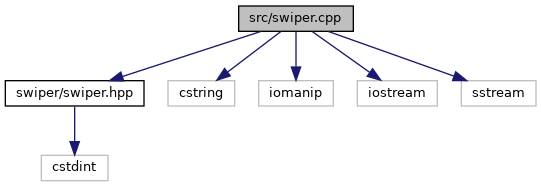
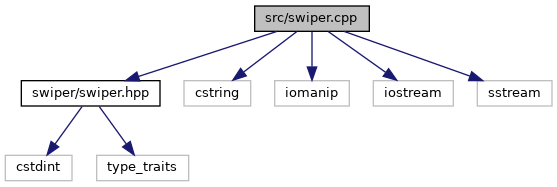
Travis build: 92
Commit: 341ecff3a257a022179fcf5909be35df15467aa0

diff --git a/swiper_8hpp_source.html b/swiper_8hpp_source.html
@@ -72,28 +72,20 @@ $(function() {
 <a href="swiper_8hpp.html">Go to the documentation of this file.</a><div class="fragment"><div class="line"><a name="l00001"></a><span class="lineno">    1</span>&#160;<span class="preprocessor">#pragma once</span></div>
 <div class="line"><a name="l00002"></a><span class="lineno">    2</span>&#160; </div>
 <div class="line"><a name="l00010"></a><span class="lineno">   10</span>&#160;<span class="preprocessor">#include &lt;cstdint&gt;</span></div>
-<div class="line"><a name="l00011"></a><span class="lineno">   11</span>&#160; </div>
-<div class="line"><a name="l00015"></a><span class="lineno"><a class="line" href="namespaceswiper.html">   15</a></span>&#160;<span class="keyword">namespace </span><a class="code" href="namespaceswiper.html">swiper</a> {</div>
-<div class="line"><a name="l00022"></a><span class="lineno">   22</span>&#160;    int32_t <a class="code" href="namespaceswiper.html#af762b52234dc8c0a458416df2f8c1ec3">ParseDigit</a>(<span class="keywordtype">char</span> c);</div>
-<div class="line"><a name="l00023"></a><span class="lineno">   23</span>&#160; </div>
-<div class="line"><a name="l00030"></a><span class="lineno">   30</span>&#160;    int32_t <a class="code" href="namespaceswiper.html#aaf453672d84b320b1c2f76e8cf025a8f">ParseDec</a>(<span class="keyword">const</span> <span class="keywordtype">char</span> *pair);</div>
-<div class="line"><a name="l00031"></a><span class="lineno">   31</span>&#160; </div>
-<div class="line"><a name="l00038"></a><span class="lineno">   38</span>&#160;    int32_t <a class="code" href="namespaceswiper.html#a6dd62273df44d6813e86741f8bed811f">ParseHex</a>(<span class="keyword">const</span> <span class="keywordtype">char</span> *pair);</div>
+<div class="line"><a name="l00011"></a><span class="lineno">   11</span>&#160;<span class="preprocessor">#include &lt;type_traits&gt;</span></div>
+<div class="line"><a name="l00012"></a><span class="lineno">   12</span>&#160; </div>
+<div class="line"><a name="l00016"></a><span class="lineno"><a class="line" href="namespaceswiper.html">   16</a></span>&#160;<span class="keyword">namespace </span><a class="code" href="namespaceswiper.html">swiper</a> {</div>
+<div class="line"><a name="l00028"></a><span class="lineno">   28</span>&#160;    <span class="keywordtype">void</span> <a class="code" href="namespaceswiper.html#a098835d2b17c1d3924a119f43deda723">Encrypt</a>(<span class="keywordtype">char</span> *hash, int16_t seed, <span class="keyword">const</span> <span class="keywordtype">char</span> *password) noexcept;</div>
+<div class="line"><a name="l00029"></a><span class="lineno">   29</span>&#160; </div>
+<div class="line"><a name="l00038"></a><span class="lineno">   38</span>&#160;    <span class="keywordtype">void</span> <a class="code" href="namespaceswiper.html#a5454b273ec2a80c65d11f67e398ae720">WarmCache</a>(<span class="keywordtype">char</span> *password, <span class="keyword">const</span> <span class="keywordtype">char</span> *hash, int32_t n) noexcept;</div>
 <div class="line"><a name="l00039"></a><span class="lineno">   39</span>&#160; </div>
-<div class="line"><a name="l00051"></a><span class="lineno">   51</span>&#160;    <span class="keywordtype">void</span> <a class="code" href="namespaceswiper.html#ae6826be05aa70e068e136218b554bc54">Encrypt</a>(<span class="keywordtype">char</span> *hash, int32_t seed, <span class="keyword">const</span> <span class="keywordtype">char</span> *password) noexcept;</div>
-<div class="line"><a name="l00052"></a><span class="lineno">   52</span>&#160; </div>
-<div class="line"><a name="l00061"></a><span class="lineno">   61</span>&#160;    <span class="keywordtype">void</span> <a class="code" href="namespaceswiper.html#a5454b273ec2a80c65d11f67e398ae720">WarmCache</a>(<span class="keywordtype">char</span> *password, <span class="keyword">const</span> <span class="keywordtype">char</span> *hash, int32_t n) noexcept;</div>
-<div class="line"><a name="l00062"></a><span class="lineno">   62</span>&#160; </div>
-<div class="line"><a name="l00074"></a><span class="lineno">   74</span>&#160;    <span class="keywordtype">void</span> <a class="code" href="namespaceswiper.html#a44449e9a1724cda79ba09564c58e259a">Decrypt</a>(<span class="keywordtype">char</span> *password, <span class="keyword">const</span> <span class="keywordtype">char</span> *hash) noexcept;</div>
-<div class="line"><a name="l00075"></a><span class="lineno">   75</span>&#160;}</div>
+<div class="line"><a name="l00051"></a><span class="lineno">   51</span>&#160;    <span class="keywordtype">void</span> <a class="code" href="namespaceswiper.html#a44449e9a1724cda79ba09564c58e259a">Decrypt</a>(<span class="keywordtype">char</span> *password, <span class="keyword">const</span> <span class="keywordtype">char</span> *hash) noexcept;</div>
+<div class="line"><a name="l00052"></a><span class="lineno">   52</span>&#160;}</div>
 </div><!-- fragment --></div><!-- contents -->
-<div class="ttc" id="anamespaceswiper_html"><div class="ttname"><a href="namespaceswiper.html">swiper</a></div><div class="ttdoc">swiper manages legacy Cisco IOS^tm type 7 passwords.</div><div class="ttdef"><b>Definition:</b> swiper.hpp:15</div></div>
-<div class="ttc" id="anamespaceswiper_html_a44449e9a1724cda79ba09564c58e259a"><div class="ttname"><a href="namespaceswiper.html#a44449e9a1724cda79ba09564c58e259a">swiper::Decrypt</a></div><div class="ttdeci">void Decrypt(char *password, const char *hash) noexcept</div><div class="ttdoc">Decrypt reverses Cisco IOS type 7 hashes.</div><div class="ttdef"><b>Definition:</b> swiper.cpp:66</div></div>
-<div class="ttc" id="anamespaceswiper_html_ae6826be05aa70e068e136218b554bc54"><div class="ttname"><a href="namespaceswiper.html#ae6826be05aa70e068e136218b554bc54">swiper::Encrypt</a></div><div class="ttdeci">void Encrypt(char *hash, int32_t seed, const char *password) noexcept</div><div class="ttdoc">Encrypt produces Cisco IOS^tm type 7 hashes.</div><div class="ttdef"><b>Definition:</b> swiper.cpp:39</div></div>
-<div class="ttc" id="anamespaceswiper_html_a6dd62273df44d6813e86741f8bed811f"><div class="ttname"><a href="namespaceswiper.html#a6dd62273df44d6813e86741f8bed811f">swiper::ParseHex</a></div><div class="ttdeci">int32_t ParseHex(const char *pair)</div><div class="ttdoc">ParseHex reads a hexadecimal string as a number.</div><div class="ttdef"><b>Definition:</b> swiper.cpp:35</div></div>
-<div class="ttc" id="anamespaceswiper_html_af762b52234dc8c0a458416df2f8c1ec3"><div class="ttname"><a href="namespaceswiper.html#af762b52234dc8c0a458416df2f8c1ec3">swiper::ParseDigit</a></div><div class="ttdeci">int32_t ParseDigit(char c)</div><div class="ttdoc">ParseDigit reads a decimal or hexadecimal character as a number.</div><div class="ttdef"><b>Definition:</b> swiper.cpp:23</div></div>
-<div class="ttc" id="anamespaceswiper_html_aaf453672d84b320b1c2f76e8cf025a8f"><div class="ttname"><a href="namespaceswiper.html#aaf453672d84b320b1c2f76e8cf025a8f">swiper::ParseDec</a></div><div class="ttdeci">int32_t ParseDec(const char *pair)</div><div class="ttdoc">ParseDec reads a decimal string as a number.</div><div class="ttdef"><b>Definition:</b> swiper.cpp:31</div></div>
-<div class="ttc" id="anamespaceswiper_html_a5454b273ec2a80c65d11f67e398ae720"><div class="ttname"><a href="namespaceswiper.html#a5454b273ec2a80c65d11f67e398ae720">swiper::WarmCache</a></div><div class="ttdeci">void WarmCache(char *password, const char *hash, int32_t n) noexcept</div><div class="ttdoc">WarmCache accelerates successive Decrypt calls, by prepopulating the system cache.</div><div class="ttdef"><b>Definition:</b> swiper.cpp:59</div></div>
+<div class="ttc" id="anamespaceswiper_html"><div class="ttname"><a href="namespaceswiper.html">swiper</a></div><div class="ttdoc">swiper manages legacy Cisco IOS^tm type 7 passwords.</div><div class="ttdef"><b>Definition:</b> swiper.hpp:16</div></div>
+<div class="ttc" id="anamespaceswiper_html_a44449e9a1724cda79ba09564c58e259a"><div class="ttname"><a href="namespaceswiper.html#a44449e9a1724cda79ba09564c58e259a">swiper::Decrypt</a></div><div class="ttdeci">void Decrypt(char *password, const char *hash) noexcept</div><div class="ttdoc">Decrypt reverses Cisco IOS type 7 hashes.</div><div class="ttdef"><b>Definition:</b> swiper.cpp:70</div></div>
+<div class="ttc" id="anamespaceswiper_html_a5454b273ec2a80c65d11f67e398ae720"><div class="ttname"><a href="namespaceswiper.html#a5454b273ec2a80c65d11f67e398ae720">swiper::WarmCache</a></div><div class="ttdeci">void WarmCache(char *password, const char *hash, int32_t n) noexcept</div><div class="ttdoc">WarmCache accelerates successive Decrypt calls, by prepopulating the system cache.</div><div class="ttdef"><b>Definition:</b> swiper.cpp:63</div></div>
+<div class="ttc" id="anamespaceswiper_html_a098835d2b17c1d3924a119f43deda723"><div class="ttname"><a href="namespaceswiper.html#a098835d2b17c1d3924a119f43deda723">swiper::Encrypt</a></div><div class="ttdeci">void Encrypt(char *hash, int16_t seed, const char *password) noexcept</div><div class="ttdoc">Encrypt produces Cisco IOS^tm type 7 hashes.</div><div class="ttdef"><b>Definition:</b> swiper.cpp:43</div></div>
 <!-- start footer part -->
 <hr class="footer"/><address class="footer"><small>
 Generated by &#160;<a href="http://www.doxygen.org/index.html">

diff --git a/namespaceswiper.html b/namespaceswiper.html
@@ -74,18 +74,9 @@ $(function() {
 <table class="memberdecls">
 <tr class="heading"><td colspan="2"><h2 class="groupheader"><a name="func-members"></a>
 Functions</h2></td></tr>
-<tr class="memitem:af762b52234dc8c0a458416df2f8c1ec3"><td class="memItemLeft" align="right" valign="top">int32_t&#160;</td><td class="memItemRight" valign="bottom"><a class="el" href="namespaceswiper.html#af762b52234dc8c0a458416df2f8c1ec3">ParseDigit</a> (char c)</td></tr>
-<tr class="memdesc:af762b52234dc8c0a458416df2f8c1ec3"><td class="mdescLeft">&#160;</td><td class="mdescRight">ParseDigit reads a decimal or hexadecimal character as a number.  <a href="namespaceswiper.html#af762b52234dc8c0a458416df2f8c1ec3">More...</a><br /></td></tr>
-<tr class="separator:af762b52234dc8c0a458416df2f8c1ec3"><td class="memSeparator" colspan="2">&#160;</td></tr>
-<tr class="memitem:aaf453672d84b320b1c2f76e8cf025a8f"><td class="memItemLeft" align="right" valign="top">int32_t&#160;</td><td class="memItemRight" valign="bottom"><a class="el" href="namespaceswiper.html#aaf453672d84b320b1c2f76e8cf025a8f">ParseDec</a> (const char *pair)</td></tr>
-<tr class="memdesc:aaf453672d84b320b1c2f76e8cf025a8f"><td class="mdescLeft">&#160;</td><td class="mdescRight">ParseDec reads a decimal string as a number.  <a href="namespaceswiper.html#aaf453672d84b320b1c2f76e8cf025a8f">More...</a><br /></td></tr>
-<tr class="separator:aaf453672d84b320b1c2f76e8cf025a8f"><td class="memSeparator" colspan="2">&#160;</td></tr>
-<tr class="memitem:a6dd62273df44d6813e86741f8bed811f"><td class="memItemLeft" align="right" valign="top">int32_t&#160;</td><td class="memItemRight" valign="bottom"><a class="el" href="namespaceswiper.html#a6dd62273df44d6813e86741f8bed811f">ParseHex</a> (const char *pair)</td></tr>
-<tr class="memdesc:a6dd62273df44d6813e86741f8bed811f"><td class="mdescLeft">&#160;</td><td class="mdescRight">ParseHex reads a hexadecimal string as a number.  <a href="namespaceswiper.html#a6dd62273df44d6813e86741f8bed811f">More...</a><br /></td></tr>
-<tr class="separator:a6dd62273df44d6813e86741f8bed811f"><td class="memSeparator" colspan="2">&#160;</td></tr>
-<tr class="memitem:ae6826be05aa70e068e136218b554bc54"><td class="memItemLeft" align="right" valign="top">void&#160;</td><td class="memItemRight" valign="bottom"><a class="el" href="namespaceswiper.html#ae6826be05aa70e068e136218b554bc54">Encrypt</a> (char *hash, int32_t seed, const char *password) noexcept</td></tr>
-<tr class="memdesc:ae6826be05aa70e068e136218b554bc54"><td class="mdescLeft">&#160;</td><td class="mdescRight">Encrypt produces Cisco IOS^tm type 7 hashes.  <a href="namespaceswiper.html#ae6826be05aa70e068e136218b554bc54">More...</a><br /></td></tr>
-<tr class="separator:ae6826be05aa70e068e136218b554bc54"><td class="memSeparator" colspan="2">&#160;</td></tr>
+<tr class="memitem:a098835d2b17c1d3924a119f43deda723"><td class="memItemLeft" align="right" valign="top">void&#160;</td><td class="memItemRight" valign="bottom"><a class="el" href="namespaceswiper.html#a098835d2b17c1d3924a119f43deda723">Encrypt</a> (char *hash, int16_t seed, const char *password) noexcept</td></tr>
+<tr class="memdesc:a098835d2b17c1d3924a119f43deda723"><td class="mdescLeft">&#160;</td><td class="mdescRight">Encrypt produces Cisco IOS^tm type 7 hashes.  <a href="namespaceswiper.html#a098835d2b17c1d3924a119f43deda723">More...</a><br /></td></tr>
+<tr class="separator:a098835d2b17c1d3924a119f43deda723"><td class="memSeparator" colspan="2">&#160;</td></tr>
 <tr class="memitem:a5454b273ec2a80c65d11f67e398ae720"><td class="memItemLeft" align="right" valign="top">void&#160;</td><td class="memItemRight" valign="bottom"><a class="el" href="namespaceswiper.html#a5454b273ec2a80c65d11f67e398ae720">WarmCache</a> (char *password, const char *hash, int32_t n) noexcept</td></tr>
 <tr class="memdesc:a5454b273ec2a80c65d11f67e398ae720"><td class="mdescLeft">&#160;</td><td class="mdescRight">WarmCache accelerates successive <a class="el" href="namespaceswiper.html#a44449e9a1724cda79ba09564c58e259a">Decrypt</a> calls, by prepopulating the system cache.  <a href="namespaceswiper.html#a5454b273ec2a80c65d11f67e398ae720">More...</a><br /></td></tr>
 <tr class="separator:a5454b273ec2a80c65d11f67e398ae720"><td class="memSeparator" colspan="2">&#160;</td></tr>
@@ -149,8 +140,8 @@ Variables</h2></td></tr>
 
 </div>
 </div>
-<a id="ae6826be05aa70e068e136218b554bc54"></a>
-<h2 class="memtitle"><span class="permalink"><a href="#ae6826be05aa70e068e136218b554bc54">&#9670;&nbsp;</a></span>Encrypt()</h2>
+<a id="a098835d2b17c1d3924a119f43deda723"></a>
+<h2 class="memtitle"><span class="permalink"><a href="#a098835d2b17c1d3924a119f43deda723">&#9670;&nbsp;</a></span>Encrypt()</h2>
 
 <div class="memitem">
 <div class="memproto">
@@ -167,7 +158,7 @@ Variables</h2></td></tr>
         <tr>
           <td class="paramkey"></td>
           <td></td>
-          <td class="paramtype">int32_t&#160;</td>
+          <td class="paramtype">int16_t&#160;</td>
           <td class="paramname"><em>seed</em>, </td>
         </tr>
         <tr>
@@ -200,87 +191,6 @@ Variables</h2></td></tr>
   </table>
   </dd>
 </dl>
-
-</div>
-</div>
-<a id="aaf453672d84b320b1c2f76e8cf025a8f"></a>
-<h2 class="memtitle"><span class="permalink"><a href="#aaf453672d84b320b1c2f76e8cf025a8f">&#9670;&nbsp;</a></span>ParseDec()</h2>
-
-<div class="memitem">
-<div class="memproto">
-      <table class="memname">
-        <tr>
-          <td class="memname">int32_t swiper::ParseDec </td>
-          <td>(</td>
-          <td class="paramtype">const char *&#160;</td>
-          <td class="paramname"><em>pair</em></td><td>)</td>
-          <td></td>
-        </tr>
-      </table>
-</div><div class="memdoc">
-
-<p>ParseDec reads a decimal string as a number. </p>
-<dl class="params"><dt>Parameters</dt><dd>
-  <table class="params">
-    <tr><td class="paramname">pair</td><td>2 characters </td></tr>
-  </table>
-  </dd>
-</dl>
-<dl class="section return"><dt>Returns</dt><dd>value </dd></dl>
-
-</div>
-</div>
-<a id="af762b52234dc8c0a458416df2f8c1ec3"></a>
-<h2 class="memtitle"><span class="permalink"><a href="#af762b52234dc8c0a458416df2f8c1ec3">&#9670;&nbsp;</a></span>ParseDigit()</h2>
-
-<div class="memitem">
-<div class="memproto">
-      <table class="memname">
-        <tr>
-          <td class="memname">int32_t swiper::ParseDigit </td>
-          <td>(</td>
-          <td class="paramtype">char&#160;</td>
-          <td class="paramname"><em>c</em></td><td>)</td>
-          <td></td>
-        </tr>
-      </table>
-</div><div class="memdoc">
-
-<p>ParseDigit reads a decimal or hexadecimal character as a number. </p>
-<dl class="params"><dt>Parameters</dt><dd>
-  <table class="params">
-    <tr><td class="paramname">c</td><td>printed representation </td></tr>
-  </table>
-  </dd>
-</dl>
-<dl class="section return"><dt>Returns</dt><dd>value </dd></dl>
-
-</div>
-</div>
-<a id="a6dd62273df44d6813e86741f8bed811f"></a>
-<h2 class="memtitle"><span class="permalink"><a href="#a6dd62273df44d6813e86741f8bed811f">&#9670;&nbsp;</a></span>ParseHex()</h2>
-
-<div class="memitem">
-<div class="memproto">
-      <table class="memname">
-        <tr>
-          <td class="memname">int32_t swiper::ParseHex </td>
-          <td>(</td>
-          <td class="paramtype">const char *&#160;</td>
-          <td class="paramname"><em>pair</em></td><td>)</td>
-          <td></td>
-        </tr>
-      </table>
-</div><div class="memdoc">
-
-<p>ParseHex reads a hexadecimal string as a number. </p>
-<dl class="params"><dt>Parameters</dt><dd>
-  <table class="params">
-    <tr><td class="paramname">pair</td><td>2 characters </td></tr>
-  </table>
-  </dd>
-</dl>
-<dl class="section return"><dt>Returns</dt><dd>value </dd></dl>
 
 </div>
 </div>

diff --git a/swiper_8cpp.html b/swiper_8cpp.html
@@ -83,13 +83,14 @@ Include dependency graph for swiper.cpp:</div>
 <div class="dyncontent">
 <div class="center"><img src="swiper_8cpp__incl.png" border="0" usemap="#src_2swiper_8cpp" alt=""/></div>
 <map name="src_2swiper_8cpp" id="src_2swiper_8cpp">
-<area shape="rect" title=" " alt="" coords="239,5,353,32"/>
-<area shape="rect" href="swiper_8hpp.html" title=" " alt="" coords="5,80,144,107"/>
-<area shape="rect" title=" " alt="" coords="168,80,235,107"/>
-<area shape="rect" title=" " alt="" coords="259,80,333,107"/>
-<area shape="rect" title=" " alt="" coords="357,80,437,107"/>
-<area shape="rect" title=" " alt="" coords="461,80,536,107"/>
-<area shape="rect" title=" " alt="" coords="41,155,108,181"/>
+<area shape="rect" title=" " alt="" coords="255,5,369,32"/>
+<area shape="rect" href="swiper_8hpp.html" title=" " alt="" coords="21,80,160,107"/>
+<area shape="rect" title=" " alt="" coords="184,80,251,107"/>
+<area shape="rect" title=" " alt="" coords="275,80,349,107"/>
+<area shape="rect" title=" " alt="" coords="373,80,453,107"/>
+<area shape="rect" title=" " alt="" coords="477,80,552,107"/>
+<area shape="rect" title=" " alt="" coords="5,155,72,181"/>
+<area shape="rect" title=" " alt="" coords="97,155,189,181"/>
 </map>
 </div>
 </div><table class="memberdecls">
@@ -101,18 +102,9 @@ Namespaces</h2></td></tr>
 </table><table class="memberdecls">
 <tr class="heading"><td colspan="2"><h2 class="groupheader"><a name="func-members"></a>
 Functions</h2></td></tr>
-<tr class="memitem:af762b52234dc8c0a458416df2f8c1ec3"><td class="memItemLeft" align="right" valign="top">int32_t&#160;</td><td class="memItemRight" valign="bottom"><a class="el" href="namespaceswiper.html#af762b52234dc8c0a458416df2f8c1ec3">swiper::ParseDigit</a> (char c)</td></tr>
-<tr class="memdesc:af762b52234dc8c0a458416df2f8c1ec3"><td class="mdescLeft">&#160;</td><td class="mdescRight">ParseDigit reads a decimal or hexadecimal character as a number.  <a href="namespaceswiper.html#af762b52234dc8c0a458416df2f8c1ec3">More...</a><br /></td></tr>
-<tr class="separator:af762b52234dc8c0a458416df2f8c1ec3"><td class="memSeparator" colspan="2">&#160;</td></tr>
-<tr class="memitem:aaf453672d84b320b1c2f76e8cf025a8f"><td class="memItemLeft" align="right" valign="top">int32_t&#160;</td><td class="memItemRight" valign="bottom"><a class="el" href="namespaceswiper.html#aaf453672d84b320b1c2f76e8cf025a8f">swiper::ParseDec</a> (const char *pair)</td></tr>
-<tr class="memdesc:aaf453672d84b320b1c2f76e8cf025a8f"><td class="mdescLeft">&#160;</td><td class="mdescRight">ParseDec reads a decimal string as a number.  <a href="namespaceswiper.html#aaf453672d84b320b1c2f76e8cf025a8f">More...</a><br /></td></tr>
-<tr class="separator:aaf453672d84b320b1c2f76e8cf025a8f"><td class="memSeparator" colspan="2">&#160;</td></tr>
-<tr class="memitem:a6dd62273df44d6813e86741f8bed811f"><td class="memItemLeft" align="right" valign="top">int32_t&#160;</td><td class="memItemRight" valign="bottom"><a class="el" href="namespaceswiper.html#a6dd62273df44d6813e86741f8bed811f">swiper::ParseHex</a> (const char *pair)</td></tr>
-<tr class="memdesc:a6dd62273df44d6813e86741f8bed811f"><td class="mdescLeft">&#160;</td><td class="mdescRight">ParseHex reads a hexadecimal string as a number.  <a href="namespaceswiper.html#a6dd62273df44d6813e86741f8bed811f">More...</a><br /></td></tr>
-<tr class="separator:a6dd62273df44d6813e86741f8bed811f"><td class="memSeparator" colspan="2">&#160;</td></tr>
-<tr class="memitem:ae6826be05aa70e068e136218b554bc54"><td class="memItemLeft" align="right" valign="top">void&#160;</td><td class="memItemRight" valign="bottom"><a class="el" href="namespaceswiper.html#ae6826be05aa70e068e136218b554bc54">swiper::Encrypt</a> (char *hash, int32_t seed, const char *password) noexcept</td></tr>
-<tr class="memdesc:ae6826be05aa70e068e136218b554bc54"><td class="mdescLeft">&#160;</td><td class="mdescRight">Encrypt produces Cisco IOS^tm type 7 hashes.  <a href="namespaceswiper.html#ae6826be05aa70e068e136218b554bc54">More...</a><br /></td></tr>
-<tr class="separator:ae6826be05aa70e068e136218b554bc54"><td class="memSeparator" colspan="2">&#160;</td></tr>
+<tr class="memitem:a098835d2b17c1d3924a119f43deda723"><td class="memItemLeft" align="right" valign="top">void&#160;</td><td class="memItemRight" valign="bottom"><a class="el" href="namespaceswiper.html#a098835d2b17c1d3924a119f43deda723">swiper::Encrypt</a> (char *hash, int16_t seed, const char *password) noexcept</td></tr>
+<tr class="memdesc:a098835d2b17c1d3924a119f43deda723"><td class="mdescLeft">&#160;</td><td class="mdescRight">Encrypt produces Cisco IOS^tm type 7 hashes.  <a href="namespaceswiper.html#a098835d2b17c1d3924a119f43deda723">More...</a><br /></td></tr>
+<tr class="separator:a098835d2b17c1d3924a119f43deda723"><td class="memSeparator" colspan="2">&#160;</td></tr>
 <tr class="memitem:a5454b273ec2a80c65d11f67e398ae720"><td class="memItemLeft" align="right" valign="top">void&#160;</td><td class="memItemRight" valign="bottom"><a class="el" href="namespaceswiper.html#a5454b273ec2a80c65d11f67e398ae720">swiper::WarmCache</a> (char *password, const char *hash, int32_t n) noexcept</td></tr>
 <tr class="memdesc:a5454b273ec2a80c65d11f67e398ae720"><td class="mdescLeft">&#160;</td><td class="mdescRight">WarmCache accelerates successive <a class="el" href="namespaceswiper.html#a44449e9a1724cda79ba09564c58e259a">Decrypt</a> calls, by prepopulating the system cache.  <a href="namespaceswiper.html#a5454b273ec2a80c65d11f67e398ae720">More...</a><br /></td></tr>
 <tr class="separator:a5454b273ec2a80c65d11f67e398ae720"><td class="memSeparator" colspan="2">&#160;</td></tr>

diff --git a/swiper_8hpp.html b/swiper_8hpp.html
@@ -73,13 +73,15 @@ $(function() {
 </div><!--header-->
 <div class="contents">
 <div class="textblock"><code>#include &lt;cstdint&gt;</code><br />
+<code>#include &lt;type_traits&gt;</code><br />
 </div><div class="textblock"><div class="dynheader">
 Include dependency graph for swiper.hpp:</div>
 <div class="dyncontent">
 <div class="center"><img src="swiper_8hpp__incl.png" border="0" usemap="#include_2swiper_2swiper_8hpp" alt=""/></div>
 <map name="include_2swiper_2swiper_8hpp" id="include_2swiper_2swiper_8hpp">
 <area shape="rect" title=" " alt="" coords="5,5,196,32"/>
-<area shape="rect" title=" " alt="" coords="67,80,134,107"/>
+<area shape="rect" title=" " alt="" coords="15,80,82,107"/>
+<area shape="rect" title=" " alt="" coords="107,80,199,107"/>
 </map>
 </div>
 </div><div class="textblock"><div class="dynheader">
@@ -103,18 +105,9 @@ Namespaces</h2></td></tr>
 </table><table class="memberdecls">
 <tr class="heading"><td colspan="2"><h2 class="groupheader"><a name="func-members"></a>
 Functions</h2></td></tr>
-<tr class="memitem:af762b52234dc8c0a458416df2f8c1ec3"><td class="memItemLeft" align="right" valign="top">int32_t&#160;</td><td class="memItemRight" valign="bottom"><a class="el" href="namespaceswiper.html#af762b52234dc8c0a458416df2f8c1ec3">swiper::ParseDigit</a> (char c)</td></tr>
-<tr class="memdesc:af762b52234dc8c0a458416df2f8c1ec3"><td class="mdescLeft">&#160;</td><td class="mdescRight">ParseDigit reads a decimal or hexadecimal character as a number.  <a href="namespaceswiper.html#af762b52234dc8c0a458416df2f8c1ec3">More...</a><br /></td></tr>
-<tr class="separator:af762b52234dc8c0a458416df2f8c1ec3"><td class="memSeparator" colspan="2">&#160;</td></tr>
-<tr class="memitem:aaf453672d84b320b1c2f76e8cf025a8f"><td class="memItemLeft" align="right" valign="top">int32_t&#160;</td><td class="memItemRight" valign="bottom"><a class="el" href="namespaceswiper.html#aaf453672d84b320b1c2f76e8cf025a8f">swiper::ParseDec</a> (const char *pair)</td></tr>
-<tr class="memdesc:aaf453672d84b320b1c2f76e8cf025a8f"><td class="mdescLeft">&#160;</td><td class="mdescRight">ParseDec reads a decimal string as a number.  <a href="namespaceswiper.html#aaf453672d84b320b1c2f76e8cf025a8f">More...</a><br /></td></tr>
-<tr class="separator:aaf453672d84b320b1c2f76e8cf025a8f"><td class="memSeparator" colspan="2">&#160;</td></tr>
-<tr class="memitem:a6dd62273df44d6813e86741f8bed811f"><td class="memItemLeft" align="right" valign="top">int32_t&#160;</td><td class="memItemRight" valign="bottom"><a class="el" href="namespaceswiper.html#a6dd62273df44d6813e86741f8bed811f">swiper::ParseHex</a> (const char *pair)</td></tr>
-<tr class="memdesc:a6dd62273df44d6813e86741f8bed811f"><td class="mdescLeft">&#160;</td><td class="mdescRight">ParseHex reads a hexadecimal string as a number.  <a href="namespaceswiper.html#a6dd62273df44d6813e86741f8bed811f">More...</a><br /></td></tr>
-<tr class="separator:a6dd62273df44d6813e86741f8bed811f"><td class="memSeparator" colspan="2">&#160;</td></tr>
-<tr class="memitem:ae6826be05aa70e068e136218b554bc54"><td class="memItemLeft" align="right" valign="top">void&#160;</td><td class="memItemRight" valign="bottom"><a class="el" href="namespaceswiper.html#ae6826be05aa70e068e136218b554bc54">swiper::Encrypt</a> (char *hash, int32_t seed, const char *password) noexcept</td></tr>
-<tr class="memdesc:ae6826be05aa70e068e136218b554bc54"><td class="mdescLeft">&#160;</td><td class="mdescRight">Encrypt produces Cisco IOS^tm type 7 hashes.  <a href="namespaceswiper.html#ae6826be05aa70e068e136218b554bc54">More...</a><br /></td></tr>
-<tr class="separator:ae6826be05aa70e068e136218b554bc54"><td class="memSeparator" colspan="2">&#160;</td></tr>
+<tr class="memitem:a098835d2b17c1d3924a119f43deda723"><td class="memItemLeft" align="right" valign="top">void&#160;</td><td class="memItemRight" valign="bottom"><a class="el" href="namespaceswiper.html#a098835d2b17c1d3924a119f43deda723">swiper::Encrypt</a> (char *hash, int16_t seed, const char *password) noexcept</td></tr>
+<tr class="memdesc:a098835d2b17c1d3924a119f43deda723"><td class="mdescLeft">&#160;</td><td class="mdescRight">Encrypt produces Cisco IOS^tm type 7 hashes.  <a href="namespaceswiper.html#a098835d2b17c1d3924a119f43deda723">More...</a><br /></td></tr>
+<tr class="separator:a098835d2b17c1d3924a119f43deda723"><td class="memSeparator" colspan="2">&#160;</td></tr>
 <tr class="memitem:a5454b273ec2a80c65d11f67e398ae720"><td class="memItemLeft" align="right" valign="top">void&#160;</td><td class="memItemRight" valign="bottom"><a class="el" href="namespaceswiper.html#a5454b273ec2a80c65d11f67e398ae720">swiper::WarmCache</a> (char *password, const char *hash, int32_t n) noexcept</td></tr>
 <tr class="memdesc:a5454b273ec2a80c65d11f67e398ae720"><td class="mdescLeft">&#160;</td><td class="mdescRight">WarmCache accelerates successive <a class="el" href="namespaceswiper.html#a44449e9a1724cda79ba09564c58e259a">Decrypt</a> calls, by prepopulating the system cache.  <a href="namespaceswiper.html#a5454b273ec2a80c65d11f67e398ae720">More...</a><br /></td></tr>
 <tr class="separator:a5454b273ec2a80c65d11f67e398ae720"><td class="memSeparator" colspan="2">&#160;</td></tr>

diff --git a/namespacemembers.html b/namespacemembers.html
@@ -66,16 +66,7 @@ $(function() {
 : <a class="el" href="namespaceswiper.html#a44449e9a1724cda79ba09564c58e259a">swiper</a>
 </li>
 <li>Encrypt()
-: <a class="el" href="namespaceswiper.html#ae6826be05aa70e068e136218b554bc54">swiper</a>
-</li>
-<li>ParseDec()
-: <a class="el" href="namespaceswiper.html#aaf453672d84b320b1c2f76e8cf025a8f">swiper</a>
-</li>
-<li>ParseDigit()
-: <a class="el" href="namespaceswiper.html#af762b52234dc8c0a458416df2f8c1ec3">swiper</a>
-</li>
-<li>ParseHex()
-: <a class="el" href="namespaceswiper.html#a6dd62273df44d6813e86741f8bed811f">swiper</a>
+: <a class="el" href="namespaceswiper.html#a098835d2b17c1d3924a119f43deda723">swiper</a>
 </li>
 <li>WarmCache()
 : <a class="el" href="namespaceswiper.html#a5454b273ec2a80c65d11f67e398ae720">swiper</a>

diff --git a/namespacemembers_func.html b/namespacemembers_func.html
@@ -66,16 +66,7 @@ $(function() {
 : <a class="el" href="namespaceswiper.html#a44449e9a1724cda79ba09564c58e259a">swiper</a>
 </li>
 <li>Encrypt()
-: <a class="el" href="namespaceswiper.html#ae6826be05aa70e068e136218b554bc54">swiper</a>
-</li>
-<li>ParseDec()
-: <a class="el" href="namespaceswiper.html#aaf453672d84b320b1c2f76e8cf025a8f">swiper</a>
-</li>
-<li>ParseDigit()
-: <a class="el" href="namespaceswiper.html#af762b52234dc8c0a458416df2f8c1ec3">swiper</a>
-</li>
-<li>ParseHex()
-: <a class="el" href="namespaceswiper.html#a6dd62273df44d6813e86741f8bed811f">swiper</a>
+: <a class="el" href="namespaceswiper.html#a098835d2b17c1d3924a119f43deda723">swiper</a>
 </li>
 <li>WarmCache()
 : <a class="el" href="namespaceswiper.html#a5454b273ec2a80c65d11f67e398ae720">swiper</a>

diff --git a/search/all_3.js b/search/all_3.js
@@ -1,6 +1,6 @@
 var searchData=
 [
-  ['parsedec_5',['ParseDec',['../namespaceswiper.html#aaf453672d84b320b1c2f76e8cf025a8f',1,'swiper']]],
-  ['parsedigit_6',['ParseDigit',['../namespaceswiper.html#af762b52234dc8c0a458416df2f8c1ec3',1,'swiper']]],
-  ['parsehex_7',['ParseHex',['../namespaceswiper.html#a6dd62273df44d6813e86741f8bed811f',1,'swiper']]]
+  ['swiper_5',['swiper',['../namespaceswiper.html',1,'']]],
+  ['swiper_2ecpp_6',['swiper.cpp',['../swiper_8cpp.html',1,'']]],
+  ['swiper_2ehpp_7',['swiper.hpp',['../swiper_8hpp.html',1,'']]]
 ];

diff --git a/main_8cpp.html b/main_8cpp.html
@@ -85,7 +85,8 @@ Include dependency graph for main.cpp:</div>
 <area shape="rect" title=" " alt="" coords="112,95,181,121"/>
 <area shape="rect" title=" " alt="" coords="205,95,272,121"/>
 <area shape="rect" href="swiper_8hpp.html" title=" " alt="" coords="296,95,435,121"/>
-<area shape="rect" title=" " alt="" coords="332,169,399,196"/>
+<area shape="rect" title=" " alt="" coords="280,169,347,196"/>
+<area shape="rect" title=" " alt="" coords="371,169,463,196"/>
 </map>
 </div>
 </div><table class="memberdecls">

diff --git a/search/functions_3.js b/search/functions_3.js
@@ -1,6 +1,4 @@
 var searchData=
 [
-  ['parsedec_21',['ParseDec',['../namespaceswiper.html#aaf453672d84b320b1c2f76e8cf025a8f',1,'swiper']]],
-  ['parsedigit_22',['ParseDigit',['../namespaceswiper.html#af762b52234dc8c0a458416df2f8c1ec3',1,'swiper']]],
-  ['parsehex_23',['ParseHex',['../namespaceswiper.html#a6dd62273df44d6813e86741f8bed811f',1,'swiper']]]
+  ['warmcache_18',['WarmCache',['../namespaceswiper.html#a5454b273ec2a80c65d11f67e398ae720',1,'swiper']]]
 ];

diff --git a/search/all_4.js b/search/all_4.js
@@ -1,6 +1,4 @@
 var searchData=
 [
-  ['swiper_8',['swiper',['../namespaceswiper.html',1,'']]],
-  ['swiper_2ecpp_9',['swiper.cpp',['../swiper_8cpp.html',1,'']]],
-  ['swiper_2ehpp_10',['swiper.hpp',['../swiper_8hpp.html',1,'']]]
+  ['warmcache_8',['WarmCache',['../namespaceswiper.html#a5454b273ec2a80c65d11f67e398ae720',1,'swiper']]]
 ];

diff --git a/search/files_1.js b/search/files_1.js
@@ -1,5 +1,5 @@
 var searchData=
 [
-  ['swiper_2ecpp_16',['swiper.cpp',['../swiper_8cpp.html',1,'']]],
-  ['swiper_2ehpp_17',['swiper.hpp',['../swiper_8hpp.html',1,'']]]
+  ['swiper_2ecpp_13',['swiper.cpp',['../swiper_8cpp.html',1,'']]],
+  ['swiper_2ehpp_14',['swiper.hpp',['../swiper_8hpp.html',1,'']]]
 ];

diff --git a/search/files_0.js b/search/files_0.js
@@ -1,5 +1,5 @@
 var searchData=
 [
-  ['main_2ecpp_14',['main.cpp',['../main_8cpp.html',1,'']]],
-  ['main_2ehpp_15',['main.hpp',['../main_8hpp.html',1,'']]]
+  ['main_2ecpp_11',['main.cpp',['../main_8cpp.html',1,'']]],
+  ['main_2ehpp_12',['main.hpp',['../main_8hpp.html',1,'']]]
 ];
